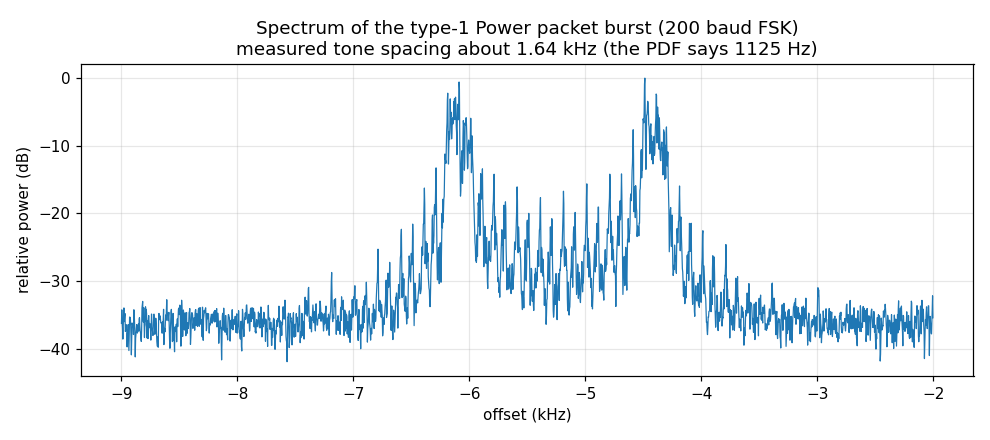
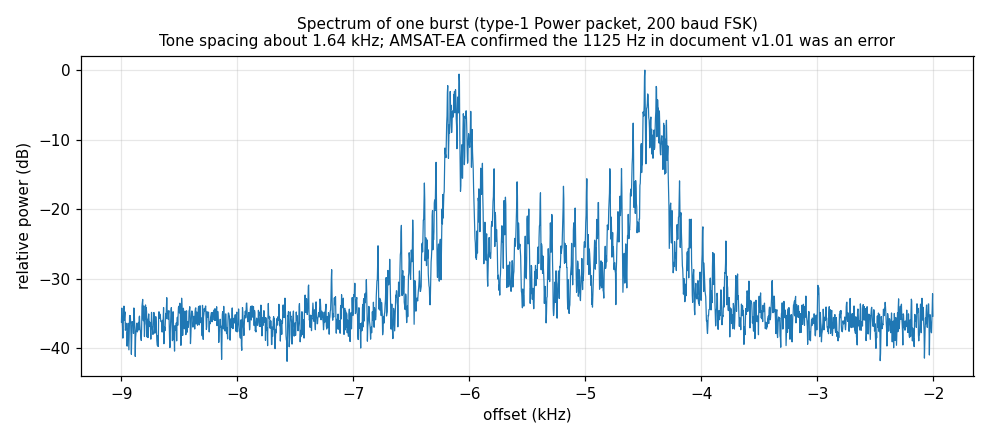
Docs: AMSAT-EA confirmed attribution, document licence and tone-spacing error

diff --git a/tools/make_plots.py b/tools/make_plots.py
@@ -102,7 +102,7 @@ def burst_spectrum():
     ax.plot(f[m] / 1000, Pd[m] - Pd.max(), lw=.8)
     ax.set_xlabel('offset (kHz)')
     ax.set_ylabel('relative power (dB)')
-    ax.set_title('Spectrum of the type-1 Power packet burst (200 baud FSK)\nmeasured tone spacing about 1.64 kHz (the PDF says 1125 Hz)')
+    ax.set_title('Spectrum of one burst (type-1 Power packet, 200 baud FSK)\nTone spacing about 1.64 kHz; AMSAT-EA confirmed the 1125 Hz in document v1.01 was an error', fontsize=10)
     ax.grid(alpha=.3)
     fig.tight_layout()
     fig.savefig(os.path.join(IMG, 'burst_spectrum.png'), dpi=110)

diff --git a/NOTICE.md b/NOTICE.md
@@ -4,8 +4,9 @@
 Without their transmission document, their open-source HADES-SA decoder and their satellite, this project
 could not have been written. Thank you to the AMSAT-EA team.
 
-This project is independent. **AMSAT-EA has not reviewed or endorsed it**, and nothing here should be read as
-an official AMSAT-EA product or statement.
+This project is independent and is not an official AMSAT-EA product. **AMSAT-EA reviewed the attribution below in
+October 2026 and confirmed it is correct, and that they are comfortable with the reuse of their format, key and code.**
+Nothing here should be read as an official AMSAT-EA statement beyond that.
 
 ---
 
@@ -16,7 +17,7 @@ an official AMSAT-EA product or statement.
 | **Work** | *UNNE-1B - Descripcion de transmisiones* (UNNE-1B transmission description), version 1.01, 10 February 2026 |
 | **Creator** | AMSAT-EA, with the payload software by Universidad Nebrija (Madrid), as stated in the document |
 | **Where** | published by AMSAT-EA; project pages at <https://www.amsat-ea.org/proyectos/> |
-| **Licence** | AMSAT-EA states that the contents it publishes on its website are distributed under Creative Commons CC BY 4.0 (notice quoted in section 2). The PDF itself carries no separate licence text that was checked; it is paraphrased here, not redistributed |
+| **Licence** | Public, CC BY 4.0. AMSAT-EA confirmed in October 2026 that the document may be used freely (they publish under Creative Commons CC BY 4.0, notice quoted in section 2). It is paraphrased here rather than redistributed |
 
 **Used for:** the FSK parameters (200 baud, mark = lower tone), frame layout (training, sync `0xBF35`, type/address
 byte, CRC), the packet types with their sizes and durations, the scrambler polynomial and initial state, the CRC
@@ -24,8 +25,9 @@ definition and its two worked examples (`"EASAT-2"` -> `0x7D58`, `"GENESIS-Genes
 CODEC2 voice packet.
 
 **Changes made:** the information is paraphrased and re-organised in `docs/protocol.md`; the figures in `docs/img/`
-are original drawings. Where measurements disagree with the document (tone spacing about 1.64 kHz measured against
-1125 Hz in the document) this is stated, not silently corrected. The PDF itself is **not** redistributed here.
+are original drawings. The tone spacing in version 1.01 of the document (1125 Hz) differs from what is received
+(about 1.64 kHz); AMSAT-EA confirmed in October 2026 that the document was wrong and will correct it, and this project
+uses the measured value. The PDF itself is **not** redistributed here.
 
 ## 2. AMSAT-EA source code
 
@@ -60,7 +62,8 @@ No other file of that repository is copied into this project. The repository its
   source files that use their material.
 * **Copyright and licence notice, link to the licence, link to the material:** given above.
 * **Changes indicated:** see the table above.
-* **No suggestion of endorsement:** stated at the top of this file and in the README.
+* **No misleading suggestion of endorsement:** what AMSAT-EA confirmed (that the attribution is correct and the reuse is
+  fine) is stated as such, and the project remains independent; see the top of this file and the README.
 * **Disclaimer:** the licensor offers its material "as is" and "as available", without representations or
   warranties (see section 5 of the legal code: <https://creativecommons.org/licenses/by/4.0/legalcode#s5>).
 

diff --git a/README.md b/README.md
@@ -9,7 +9,8 @@ so you never have to chase the signal by hand.
 
 UNNE-1B is a 1.5P PocketQube built by [AMSAT-EA](https://www.amsat-ea.org/) with Universidad Nebrija,
 downlink **436.888 MHz**. This project is an independent, open-source ground-station decoder; it is
-not an AMSAT-EA product, and AMSAT-EA has not endorsed it. It is built on the open documentation and
+not an AMSAT-EA product; AMSAT-EA has reviewed the credit given here and confirmed it is correct (October 2026).
+It is built on the open documentation and
 source code that AMSAT-EA publishes - see [Acknowledgements](#acknowledgements-and-licence).
 
 Developed by **N6RFM** with help from Claude (Anthropic) - see [Authorship](#authorship).
@@ -151,8 +152,8 @@ the figures and result files were produced from the full file.
   ([transcript](examples/results/voice_transcript.md)). Voice packets have **no CRC**, so bit errors cannot be
   detected. The pace sounds natural at 115-120 % speed (`--voice-speed 1.15`); whether the original is slow or the
   time base is slightly off is not known.
-* The measured FSK tone spacing is about **1.64 kHz**, not the 1125 Hz written in the AMSAT-EA
-  document (v1.01). Decoding does not depend on it. See [reverse-engineering notes](docs/reverse-engineering-notes.md).
+* The FSK tone spacing is about **1.64 kHz**. Version 1.01 of the AMSAT-EA document said 1125 Hz; AMSAT-EA
+  confirmed in October 2026 that this was an error and will correct it. Decoding does not depend on it. See [reverse-engineering notes](docs/reverse-engineering-notes.md).
 * See [limitations](docs/limitations-and-roadmap.md) for the full list.
 
 ## Authorship
@@ -179,7 +180,9 @@ been checked against one real pass, so please report anything that looks wrong.
   implementation is tested against.
 * **`hadesr.dll`**, AMSAT-EA's telemetry decoder library, provides the optional labelled output. It is **not**
   included; you supply your own copy.
-* AMSAT-EA has not reviewed or endorsed this project.
+* AMSAT-EA reviewed the attribution in this project in October 2026 and confirmed it is correct, and that they are
+  comfortable with the reuse of their format, key and code credited here. It remains an independent project, not an
+  AMSAT-EA product.
 
 Exactly what was taken, what was changed and the licence terms are in **[NOTICE.md](NOTICE.md)**.
 

diff --git a/docs/satellites.md b/docs/satellites.md
@@ -6,8 +6,8 @@ CRC-16. The decoder recognises the variants automatically (by the frame itself, 
 
 | Satellite | Downlink | Baud / tone spacing | Frame layout | Status here |
 |---|---|---|---|---|
-| **UNNE-1B** (HADES-E2) | 436.888 MHz | 200, 1125 Hz in the document (about 1.64 kHz measured) | legacy: type/addr, data, CRC; voice with a length byte | **decoded from real recordings** (telemetry, voice) |
-| **HADES-SA / SpinnyONE** (SO-127) | 436.875 MHz | 800 with 1600 Hz spacing, or 200 with 1125 Hz; alternates every 30 days | length byte, then type/addr, data, CRC | framing, scrambler, CRC and demodulation checked with AMSAT-EA's sample frames and synthetic signals; **not yet tested on a real recording** |
+| **UNNE-1B** (HADES-E2) | 436.888 MHz | 200, about 1.64 kHz (the 1125 Hz in document v1.01 was an error, confirmed by AMSAT-EA) | legacy: type/addr, data, CRC; voice with a length byte | **decoded from real recordings** (telemetry, voice) |
+| **HADES-SA / SpinnyONE** (SO-127) | 436.875 MHz | 800 with 1600 Hz spacing, or 200 with 1125 Hz (per its document; the same figure was wrong for UNNE-1B, so check on real recordings); alternates every 30 days | length byte, then type/addr, data, CRC | framing, scrambler, CRC and demodulation checked with AMSAT-EA's sample frames and synthetic signals; **not yet tested on a real recording** |
 | **HADES-L** | 436.665 MHz | 800 with 1600 Hz spacing | length byte, then type/addr, data, CRC | same as HADES-SA; packet types from AMSAT-EA's document; **not yet tested on a real recording** |
 | MARIA-G, HADES-ICM | - | 200 | legacy | recognised by address; not launched / ended, untested |
 

diff --git a/docs/reverse-engineering-notes.md b/docs/reverse-engineering-notes.md
@@ -74,10 +74,9 @@ pre-fill corrupted the noise-floor estimate. Fixed by seeding the floor only fro
 
 ## Open questions
 
-* **Tone spacing:** the document says 1125 Hz; measured 1608-1654 Hz in every burst. The data rate is right (200 baud) so
-  it is not a clock error; either the document is out of date, the deviation was changed, or the SDR has a scaling
-  problem. Worth re-checking with another receiver.
+* **Tone spacing (resolved):** the document said 1125 Hz; 1608-1654 Hz was measured in every burst while the data rate
+  (200 baud) was right. AMSAT-EA confirmed in October 2026 that the document was wrong and will correct it.
 * **Frequency behaviour:** the FSK centre moves in a V-shaped path while other carriers in the band move monotonically.
 * **Training length:** the document's text says 64 bits, its tables say 128; 128 (about 126 recovered) is received.
 * **Voice pace:** the message (the opening of *Don Quijote*) sounds natural at 115-120 % speed; whether the satellite's recording is slow or the decoded time base is a little off is unknown.
-* **Types 4, 5, 6, 8, 9** have not been received yet.
+* **Types 4, 5, 6, 8, 9** have not been received yet; AMSAT-EA has offered IQ recordings.

diff --git a/CHANGELOG.md b/CHANGELOG.md
@@ -2,6 +2,7 @@
 
 ## Unreleased
 
+* Documentation updated after AMSAT-EA's reply (October 2026): attribution and the UNNE-1B document's CC BY 4.0 licence confirmed; the 1125 Hz tone spacing in document v1.01 was an error (about 1.64 kHz is right).
 * Per-type output folder (`--outdir`, flowgraph variable `out_dir`): the files of AMSAT-EA's Windows tool, updated in place with unique additions; HADES-SA decoders ported from AMSAT-EA's source and checked on about 7 800 frames against the compiled original; SSDV image packets (CRC-32 checked) and PN9 link tests are recognised.
 * HADES-SA / HADES-L frame support: length-byte layout, automatic 200 + 800 baud detection (`--baud`), per-satellite packet type names, `--emit-unverified`; frames of satellites the DLL does not know are shown as raw bytes. Tested with AMSAT-EA's sample frames and synthetic signals only.
 * Optional time stamp on the deframer's `hex` port (`hex_time`: none, utc, local, unix, stream; `rec_start` for recordings).

diff --git a/docs/limitations-and-roadmap.md b/docs/limitations-and-roadmap.md
@@ -13,8 +13,9 @@
 * **Tracker assumptions:** one two-tone signal, 1.0-2.4 kHz spacing, 1.2 s latency, the whole Doppler range inside the
   recorded band.
 * **Timing:** frame time stamps in the JSON log are accurate to about +-1 s.
-* **Tone spacing** differs from the AMSAT-EA document (1.64 kHz measured vs 1125 Hz); see
-  [reverse-engineering-notes.md](reverse-engineering-notes.md).
+* **Tone spacing:** about 1.64 kHz is received; version 1.01 of the UNNE-1B document said 1125 Hz, which AMSAT-EA has
+  confirmed was a mistake (October 2026). The HADES-SA and HADES-L documents give 1125 Hz at 200 baud and 1600 Hz at 800
+  baud; those values may need the same check on real recordings (the decoder accepts 1.0-2.4 kHz either way).
 * **Not decoded:** the FM voice/transponder audio, store-and-forward, and any command (uplink) traffic.
 
 ## Roadmap ideas

diff --git a/docs/protocol.md b/docs/protocol.md
@@ -14,7 +14,7 @@ Attribution, licences and the list of what was taken from AMSAT-EA: [NOTICE.md](
 | Modulation | binary FSK |
 | Baud rate | **200 baud** (initial; can be raised by telecommand up to 2400) |
 | Mark / space | lower tone = **mark = bit 1**, higher tone = **space = bit 0** |
-| Tone spacing | document: 1125 Hz. **Measured: about 1.64 kHz** (1608-1654 Hz in every burst) |
+| Tone spacing | **about 1.64 kHz** (1608-1654 Hz measured in every burst). Version 1.01 of the AMSAT-EA document said 1125 Hz; AMSAT-EA confirmed in October 2026 that this was an error and will correct it |
 | Bit order | bytes are sent **MSB first** |
 | Occupied bandwidth | about 3 kHz (measured: two tones 1.64 kHz apart plus 200 baud sidebands) |
 
